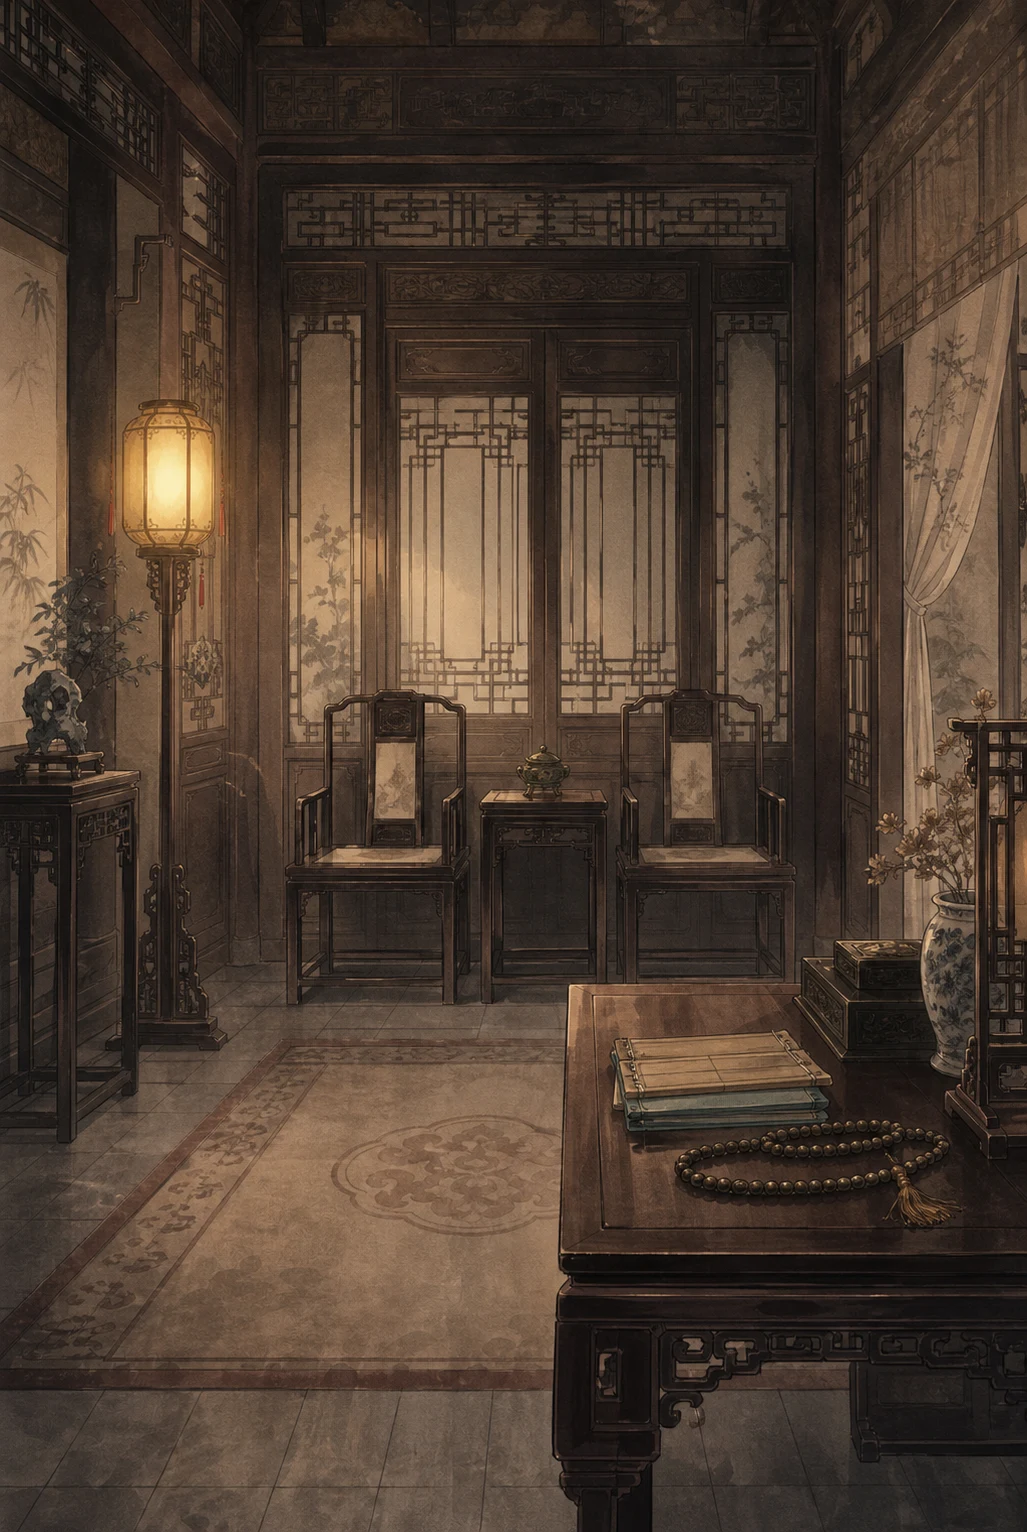
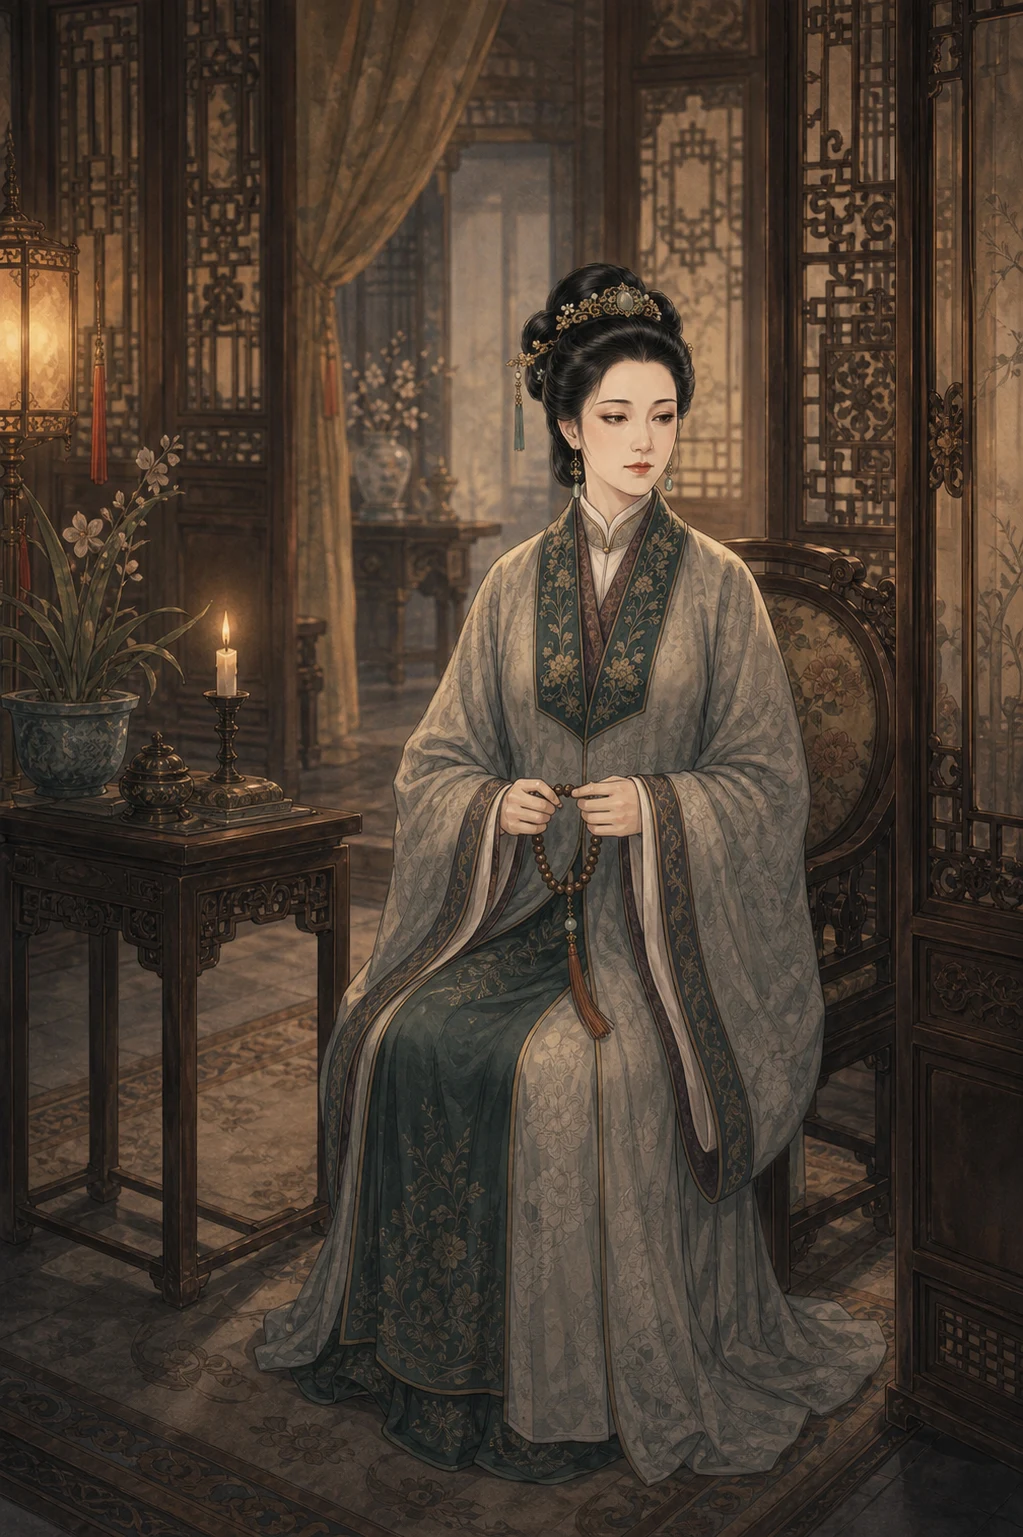
art: 补全过场/抉择/终局画面，重制王夫人贾母场景图
- 王夫人(上房/佛堂)、贾母(荥庆堂)三张场景图重制：原图是空房间，
  人物没画进去，现在补上人物本身，和凤姐/黛玉的"人景一体"范本一致。
- 第二天过渡、第三天过渡/抉择一·玉、过桥·井边(全剧之心)/抉择二·女孩、
  终局判词，共8张过场图接入data文件和ChoiceScene/Ending，过去这些
  地方全是纯黑/暗渐变，现在整条故事线视觉空白基本补完。
- ChoiceScene的bg渲染从opacity-30+重渐变调整为接近BeatScene的处理
  (更高的图片可见度+较轻的渐变)，过场图才不会被糊成看不清。
- Ending.tsx新增背景图支持(原来完全没有bg渲染逻辑)，终局判词卡片
  现在浮在月色大观园+镜子残影上，呼应开场的风月鉴。

diff --git a/src/story/Ending.tsx b/src/story/Ending.tsx
@@ -143,12 +143,19 @@ export default function Ending({ readKeys, recap, jadeChoice, girlChoice, onRest
 
   return (
     <div
-      className="mx-auto flex min-h-screen w-full max-w-[440px] cursor-pointer flex-col bg-stone-950 px-7 py-12"
+      className="relative mx-auto flex min-h-screen w-full max-w-[440px] cursor-pointer flex-col overflow-hidden bg-stone-950 px-7 py-12"
       onClick={() => !isDone && setStep((s) => s + 1)}
     >
-      <p className="mb-8 text-center text-[12px] tracking-[0.4em] text-amber-200/60">终局</p>
+      <img
+        src="./assets/scenes/ending-mirror-moon.webp"
+        alt=""
+        className="absolute inset-0 h-full w-full object-cover animate-fade-in-scene"
+      />
+      <div className="absolute inset-0 bg-gradient-to-b from-stone-950/70 via-stone-950/55 to-stone-950/90" />
 
-      <div className="space-y-6">
+      <p className="relative mb-8 text-center font-serif text-[12px] tracking-[0.4em] text-amber-200/60">终局</p>
+
+      <div className="relative space-y-6">
         {beats.slice(0, step).map((beat, i) => (
           <div key={i} className="animate-fade-in">
             {beat.content}
@@ -157,7 +164,7 @@ export default function Ending({ readKeys, recap, jadeChoice, girlChoice, onRest
       </div>
 
       {!isDone && (
-        <div className="mt-auto pt-10 text-center text-[11px] tracking-widest text-stone-600">
+        <div className="relative mt-auto pt-10 text-center text-[11px] tracking-widest text-stone-300/80">
           轻触继续
         </div>
       )}

diff --git a/src/story/data/day3.ts b/src/story/data/day3.ts
@@ -8,19 +8,26 @@ export type JadeChoice = 'reveal' | 'hide';
 export type GirlChoice = 'remember' | 'leave';
 
 // ===== 第三天过场 =====
+const DAWN_MANSION_BG = './assets/scenes/day3-dawn-mansion.webp';
+
 export const DAY3_BEATS: Beat[] = [
   {
     text: '省亲的最后一日。\n天没亮，园子里就开始忙了。元妃的仪仗、回宫的车驾，一样样备起来。',
+    bg: DAWN_MANSION_BG,
   },
   {
     text: '满府的人还在找那块玉——找了三天，翻遍了每一个角落。\n可你手里，攥着两个只有你知道的秘密。',
+    bg: DAWN_MANSION_BG,
   },
   {
     text: '一个，是那块玉，到底在哪。\n一个，是井边那个女孩，到底是怎么没的。\n\n天亮之前，你得决定，拿它们怎么办。',
+    bg: DAWN_MANSION_BG,
   },
 ];
 
 // ===== 抉择一 · 玉 =====
+export const JADE_BG = DAWN_MANSION_BG;
+
 export const JADE_SETUP =
   '你比这府里任何人都懂宝玉。\n所以你想得到，他会把那块他厌恶了一辈子的"命"，藏在哪里。\n\n那块玉，从来没有丢。它只是，被它的主人亲手藏了起来。\n而现在，全府的安宁，就系在你这一个念头上。';
 
@@ -40,16 +47,22 @@ export const JADE_CHOICES: { id: JadeChoice; label: string; outcome: string }[] 
 ];
 
 // ===== 过桥（玉 → 女孩） =====
+const WELL_RELICS_BG = './assets/scenes/well-relics.webp';
+
 export const DAY3_BRIDGE_BEATS: Beat[] = [
   {
     text: '玉的事，无论你怎么选，到天亮，都会过去。\n\n可还有一个人，不会因为天亮，就回来。',
+    bg: WELL_RELICS_BG,
   },
   {
     text: '你走到那口井边。晨雾还没散。\n她那点东西——一只旧荷包，半双没绣完的鞋样——还在井台的石阶上，没人收。',
+    bg: WELL_RELICS_BG,
   },
 ];
 
 // ===== 抉择二 · 女孩（压轴） =====
+export const GIRL_BG = WELL_RELICS_BG;
+
 export const GIRL_SETUP =
   '这府里的女子，个个都有一首判词，写尽了她们的命。\n凤姐有，黛玉有，连那高墙里的元妃也有。\n\n唯独她没有。\n没有姓名，没有册子，没有一行字，记得她曾经活过。\n\n而你，是这满园里唯一一个，还记得她的人。';
 

diff --git a/src/story/data/opening.ts b/src/story/data/opening.ts
@@ -15,18 +15,15 @@ export const OPENING_BEATS: Beat[] = [
   },
   {
     text: '游人散尽，暮色四合。\n\n假山背后，一个跛脚老者守着一地旧物。\n他抬眼看你，像是已等了很久。\n\n「姑娘，」他说，「真正懂一个人，\n和以为自己懂——差得很远呢。」',
-    bg: './assets/locations/hengwu.webp',
-    dim: true,
+    bg: './assets/scenes/opening-taoist-stall.webp',
   },
   {
     text: '他递来一面锈迹斑斑的铜镜，背面刻着三个字——风月鉴。\n\n「记着，」老者的声音忽然很轻，\n「只许照背面。千万、别看正面。」',
-    bg: './assets/locations/hengwu.webp',
-    dim: true,
+    bg: './assets/scenes/opening-mirror-back.webp',
   },
   {
     text: '可你鬼使神差，翻到了正面。\n\n镜子里……是他的脸。\n不是你以为的那个人——\n是宝玉。是那张你读了十年、以为读懂了的脸。\n\n你伸出手，去碰——',
-    bg: './assets/locations/hengwu.webp',
-    dim: true,
+    bg: './assets/scenes/opening-mirror-face.webp',
   },
   {
     text: '光，骤然漫过来。',

diff --git a/src/story/ChoiceScene.tsx b/src/story/ChoiceScene.tsx
@@ -24,8 +24,8 @@ export default function ChoiceScene({ tag, bg, setup, choices, onChoose, continu
 
   return (
     <div className="relative mx-auto flex min-h-screen w-full max-w-[440px] flex-col overflow-hidden bg-stone-950">
-      {bg && <img src={bg} alt="" className="absolute inset-0 h-full w-full object-cover opacity-30 animate-fade-in-scene" />}
-      <div className="absolute inset-0 bg-gradient-to-b from-stone-950/85 via-stone-950/70 to-stone-950/95" />
+      {bg && <img src={bg} alt="" className="absolute inset-0 h-full w-full object-cover animate-fade-in-scene" />}
+      <div className="absolute inset-0 bg-gradient-to-b from-stone-950/75 via-stone-950/55 to-stone-950/90" />
 
       <div className="relative flex min-h-screen flex-col px-7 py-12">
         {tag && <p className="mb-8 text-center font-serif text-[12px] tracking-[0.4em] text-amber-200/60">{tag}</p>}

diff --git a/src/story/SliceDemo.tsx b/src/story/SliceDemo.tsx
@@ -19,7 +19,7 @@ import { DAY2_BEATS } from './data/day2';
 import { JIAMU, SCENE_RONGQING, ENC_JIAMU_D2, CLUE_JIAMU_SILENCE } from './data/jiamu';
 import { WANGFUREN_NPC, SCENE_FOTANG, ENC_WANGFUREN_D2, CLUE_WANGFUREN_HAND } from './data/wangfuren2';
 import {
-  DAY3_BEATS, DAY3_BRIDGE_BEATS, JADE_SETUP, JADE_CHOICES, GIRL_SETUP, GIRL_CHOICES,
+  DAY3_BEATS, DAY3_BRIDGE_BEATS, JADE_SETUP, JADE_CHOICES, JADE_BG, GIRL_SETUP, GIRL_CHOICES, GIRL_BG,
   type JadeChoice, type GirlChoice,
 } from './data/day3';
 import { trackRead, trackMoralChoice } from '../analytics';
@@ -186,6 +186,7 @@ export default function SliceDemo() {
     return (
       <ChoiceScene
         tag="抉择一 · 玉"
+        bg={JADE_BG}
         setup={JADE_SETUP}
         choices={JADE_CHOICES}
         onChoose={(id) => {
@@ -205,6 +206,7 @@ export default function SliceDemo() {
     return (
       <ChoiceScene
         tag="抉择二 · 女孩"
+        bg={GIRL_BG}
         setup={GIRL_SETUP}
         choices={GIRL_CHOICES}
         continueLabel="前往终局 →"

diff --git a/src/story/data/day2.ts b/src/story/data/day2.ts
@@ -5,14 +5,18 @@ import type { Beat } from '../BeatScene';
 export const DAY2_BEATS: Beat[] = [
   {
     text: '次日清晨，园子里起了另一场风。\n\n不是为了玉。',
+    bg: './assets/scenes/day2-garden-search.webp',
   },
   {
     text: '小蝉——那个总在井边浆洗衣物的丫鬟——一夜没有回房。\n有人说，她想必是自己投井去的，年轻人脾气大，受了委屈想不开。',
+    bg: './assets/scenes/day2-well-morning.webp',
   },
   {
     text: '没有人提起，她前几天还在凤姐身边伺候过几次。\n也没有人问，为什么她的箱子被翻得乱七八糟，东西却一件没少。',
+    bg: './assets/scenes/day2-garden-search.webp',
   },
   {
     text: '满府的人，依旧在找那块玉。\n只有你，站在那口井边，站了很久。',
+    bg: './assets/scenes/day2-well-morning.webp',
   },
 ];

diff --git a/docs/美术提示词_补充清单_2026-06-20.md b/docs/美术提示词_补充清单_2026-06-20.md
@@ -1,0 +1,90 @@
+# 美术提示词 · 补充清单 · 2026-06-20
+
+> 用途：上一份《美术提示词_全量待生_2026-06-19.md》已经覆盖了王夫人/贾母的人设，但实际交付的三张场景图（`wangfuren-hall.webp`、`jiamu-hall.webp`、`wangfuren-fotang.webp`）核对下来都是**空场景，人没有画进去**——和凤姐/黛玉那两张"人景一体"的范本不一致。这份清单先补这三张的重制提示词，再把这两轮对话里讨论过的开场/第二天/第三天/终局共8张过场图一次性整理进来，方便一口气生产。
+
+## 通用规则（沿用全量清单，照旧套）
+
+- **风格**：水墨淡彩插画，不是真人/3D/二次元美少女脸，清雅文气的红楼气质。
+- **构图**：竖版（手机竖屏），人物站在场景里，**不是抠图贴上去**——人景共享同一光线、同一空间纵深，脚下有落地投影。
+- **保脸**：下面三张"重制"图，请把已经生成好的 `wangfuren-calm.webp` / `jiamu-calm.webp` 上传给生图工具做参考图，保证场景图里的脸和近景特写是同一个人，不要重新形容长相。
+- 生成后裁掉水印。
+
+---
+
+## A 组 · 重制：王夫人/贾母的场景图必须有人
+
+### A1 王夫人 · 上房场景图（重制 `wangfuren-hall.webp`）
+
+现状：现在这张图是空房间（圈椅、灯笼、佛珠摆在桌上），王夫人本人没有画进去。
+
+> 竖版画面，一位四十岁上下、神情沉静庄重的贵妇端坐在铺着锦缎的圈椅上，手里转动着一串佛珠，神色一丝不乱地看着画面外。水墨淡彩为底但有柔和体积光，人物身后是半开的雕花隔断和一盆素净的兰花，烛光从一侧打来，人物身上有清晰的落地投影，与室内陈设（圈椅、隔断、灯笼）共享同一光线和空间纵深，人景浑然一体（非抠图拼贴），清雅文气面容（参考已生成的 wangfuren-calm 图保脸），电影级氛围，气氛肃然安静，与满府慌乱形成对比。
+
+### A2 贾母 · 荥庆堂场景图（重制 `jiamu-hall.webp`）
+
+现状：现在这张图是空房间（锦绣靠榻、拐杖斜靠在沙发上），贾母本人没有画进去。
+
+> 竖版画面，一位七十岁上下、慈眉善目却气度威严的老太太，半倚在铺着软垫的靠榻上，身边靠着一根乌木拐杖，神态慈和中带一丝倦意地看着画面外。水墨淡彩为底但有柔和体积光，背景有锦绣屏风和暖色灯笼，人物身上有清晰的落地投影，与室内陈设（靠榻、屏风、灯笼）共享同一光线和空间纵深，人景浑然一体（非抠图拼贴），清雅文气面容（参考已生成的 jiamu-calm 图保脸），电影级氛围。
+
+### A3 王夫人 · 佛堂场景图（重制 `wangfuren-fotang.webp`）
+
+现状：现在这张图是空佛堂（香案、烟雾、灯笼），王夫人本人没有画进去。这一场是全剧"她那只手"正式浮现的场次，人物比环境更重要。
+
+> 竖版画面，同一位贵妇（参考已生成的 wangfuren-calm 图保脸），跪坐/端坐在佛堂的拜垫上，一下一下数着手里的佛珠，眼皮低垂，神情平静慈悲，身后佛像隐在缭绕的檀香烟雾后，面目模糊。水墨淡彩为底但有柔和体积光，暖黄烛光从香案方向打来，人物身上有清晰的落地投影，与香案、烟雾、灯笼共享同一光线和空间纵深，人景浑然一体（非抠图拼贴），清雅文气面容，电影级氛围，气氛庄重而暗藏冷意——"念佛"与"行恶"的反讽要在这张画面里就能感觉到。
+
+---
+
+## B 组 · 开场冷开场补图（3张）
+
+对应冷开场第3-5拍（道人登场 → 递镜只许看背面 → 翻见镜面是宝玉的脸），现在这三拍共用同一张暗场图，全剧第一个悬念反而最素。
+
+### B1 道人定场图
+> 竖版画面，一位跛脚的老道人，独自蹲坐在假山石后的旧物摊前，周围摆着些斑驳的旧物件，抬眼望向画面外。水墨淡彩为底但有柔和体积光，月色清冷，人物脚下有落地投影，与假山、夜色共享同一光线和空间纵深，人景浑然一体（非抠图拼贴），面容清瘦神秘、带一丝洞悉一切的笑意，电影级氛围，暮色四合的园林背景。
+
+### B2 镜背特写
+> 竖版画面，特写镜头：一只布满皱纹、青筋的手，递出一面锈迹斑斑的古铜镜，镜背刻着"风月鉴"三个篆字，镜身周围缠着暗红色的丝穗。水墨淡彩为底，柔和的月光从侧面打来，背景虚化为假山与夜色，氛围神秘庄重、带一丝不祥的诱惑感，电影级氛围。
+
+### B3 镜面反转特写（整段冷开场最关键的一张）
+> 竖版画面，特写镜头：一面锈迹斑斑的古铜镜，镜面里映出一位清秀文气的古代少年的脸——眉眼温润、带着说不清的哀伤，镜身边缘带着岁月侵蚀的暗绿铜锈。水墨淡彩为底，柔和的光从镜面边缘漫出，仿佛镜子本身在发光，电影级氛围，氛围悬疑而美丽，让人不安又移不开眼。
+
+---
+
+## C 组 · 第二天过渡补图（2张，4拍轮流用）
+
+### C1 晨间园子（忙乱寻玉）
+> 竖版画面，清晨的大观园回廊与庭院，仆从仆妇三三两两、神色匆忙地穿梭找寻，晨雾未散。水墨淡彩为底但有柔和体积光，建筑与人物共享同一晨光与空间纵深，气氛紧张忙乱却压抑，电影级氛围，整体留白克制。
+
+### C2 井边晨景（空寂，呼应丫鬟之死）
+> 竖版画面，大观园一处僻静的水井，井栏石阶湿冷，晨雾笼罩，四周空无一人，只有几片落叶飘在井口。水墨淡彩为底，清冷的晨光从一侧斜射，气氛静默哀伤，电影级氛围，画面留白多、情绪克制。
+
+---
+
+## D 组 · 第三天过渡 / 抉择一·玉（1张）
+
+> 竖版画面，天将破晓的大观园远景，府邸轮廓在熹微晨光中浮现，远处隐约可见仪仗车驾正在准备，灯笼尚未熄灭。水墨淡彩为底，晨光与夜色交融出冷暖对比，气氛庄重而紧张，电影级氛围。
+
+---
+
+## E 组 · 过桥·井边（"全剧之心"，最高优先级，1张）
+
+抉择二·女孩也直接借用这张，同一地点同一情绪，不用再画一张。
+
+> 竖版画面，清晨薄雾笼罩的水井石阶，台阶上静静放着一只旧布荷包和一双没有绣完的鞋样，无人认领，旁边几片湿叶。水墨淡彩为底，柔和清冷的晨光洒在那两件遗物上、形成微弱的光晕，仿佛是画面里唯一被惦记的角落，气氛静默哀伤、克制而有力，电影级氛围。
+
+---
+
+## F 组 · 终局判词氛围图（1张）
+
+建议和开场的镜子做个呼应，首尾扣题。
+
+> 竖版画面，夜深的大观园远景剪影，朱楼渐次熄灯，唯余一片清冷月色笼罩，画面一角隐约浮着一面铜镜的微光残影，虚实交织。水墨淡彩为底，气氛悬疑诗意、归于平静，电影级氛围，留白充足以承载文字。
+
+---
+
+## 优先级建议
+
+1. **A 组（王夫人/贾母场景重制）**——代码已经在用这三张，现在用的是空房间，越早换越好，不阻塞功能但影响第一/第二天观感。
+2. **E 组（井边，全剧之心）**——情感最重的一拍，目前全黑。
+3. **B 组（开场镜子三连拍）**——全剧第一个悬念，影响第一印象。
+4. **C/D/F 组**——补完整条故事线的过场气氛，不阻塞，但缺了就是"冲淡剧情"的那部分。
+
+生好之后按文件名直接覆盖/新增到 `public/assets/scenes/` 或 `public/assets/locations/`（按上面括号里写的现有文件名覆盖，新图你随意命名告诉我就行），我接的时候不用等凑齐，来一张接一张。